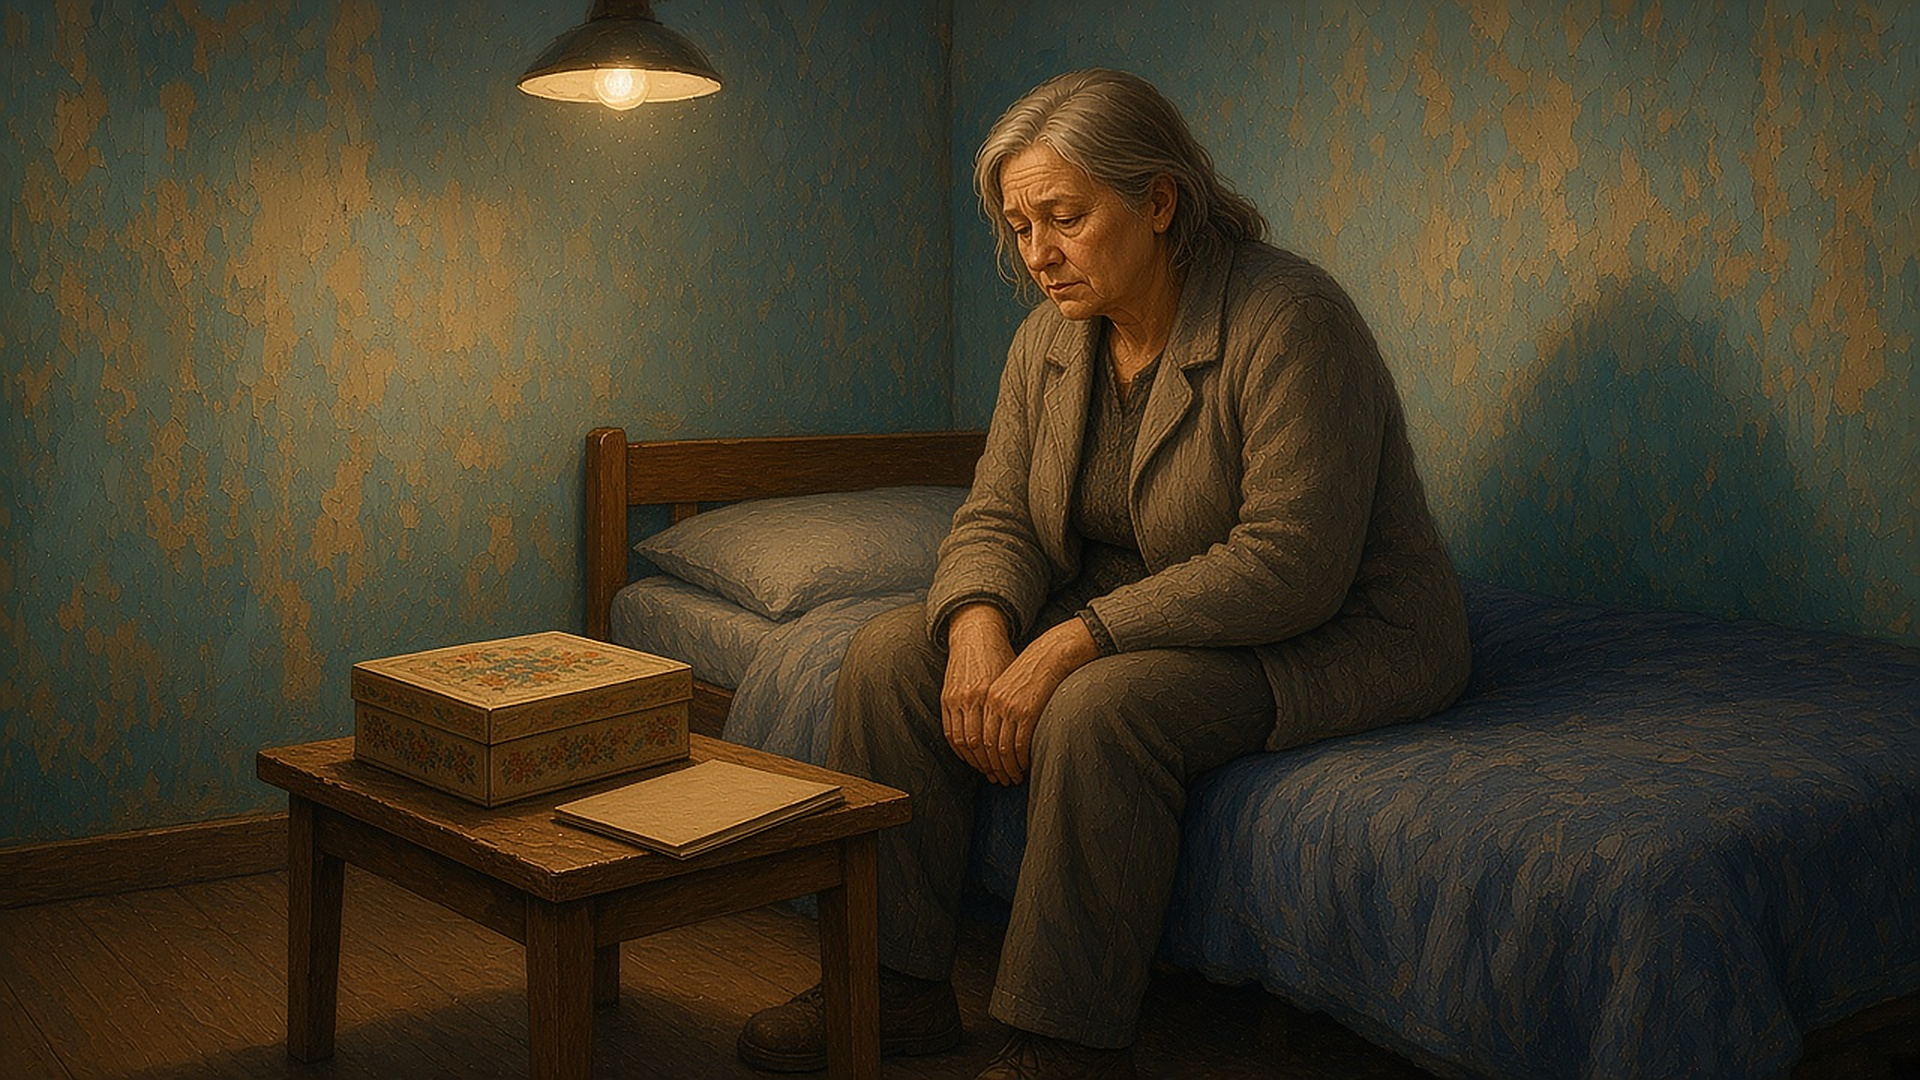
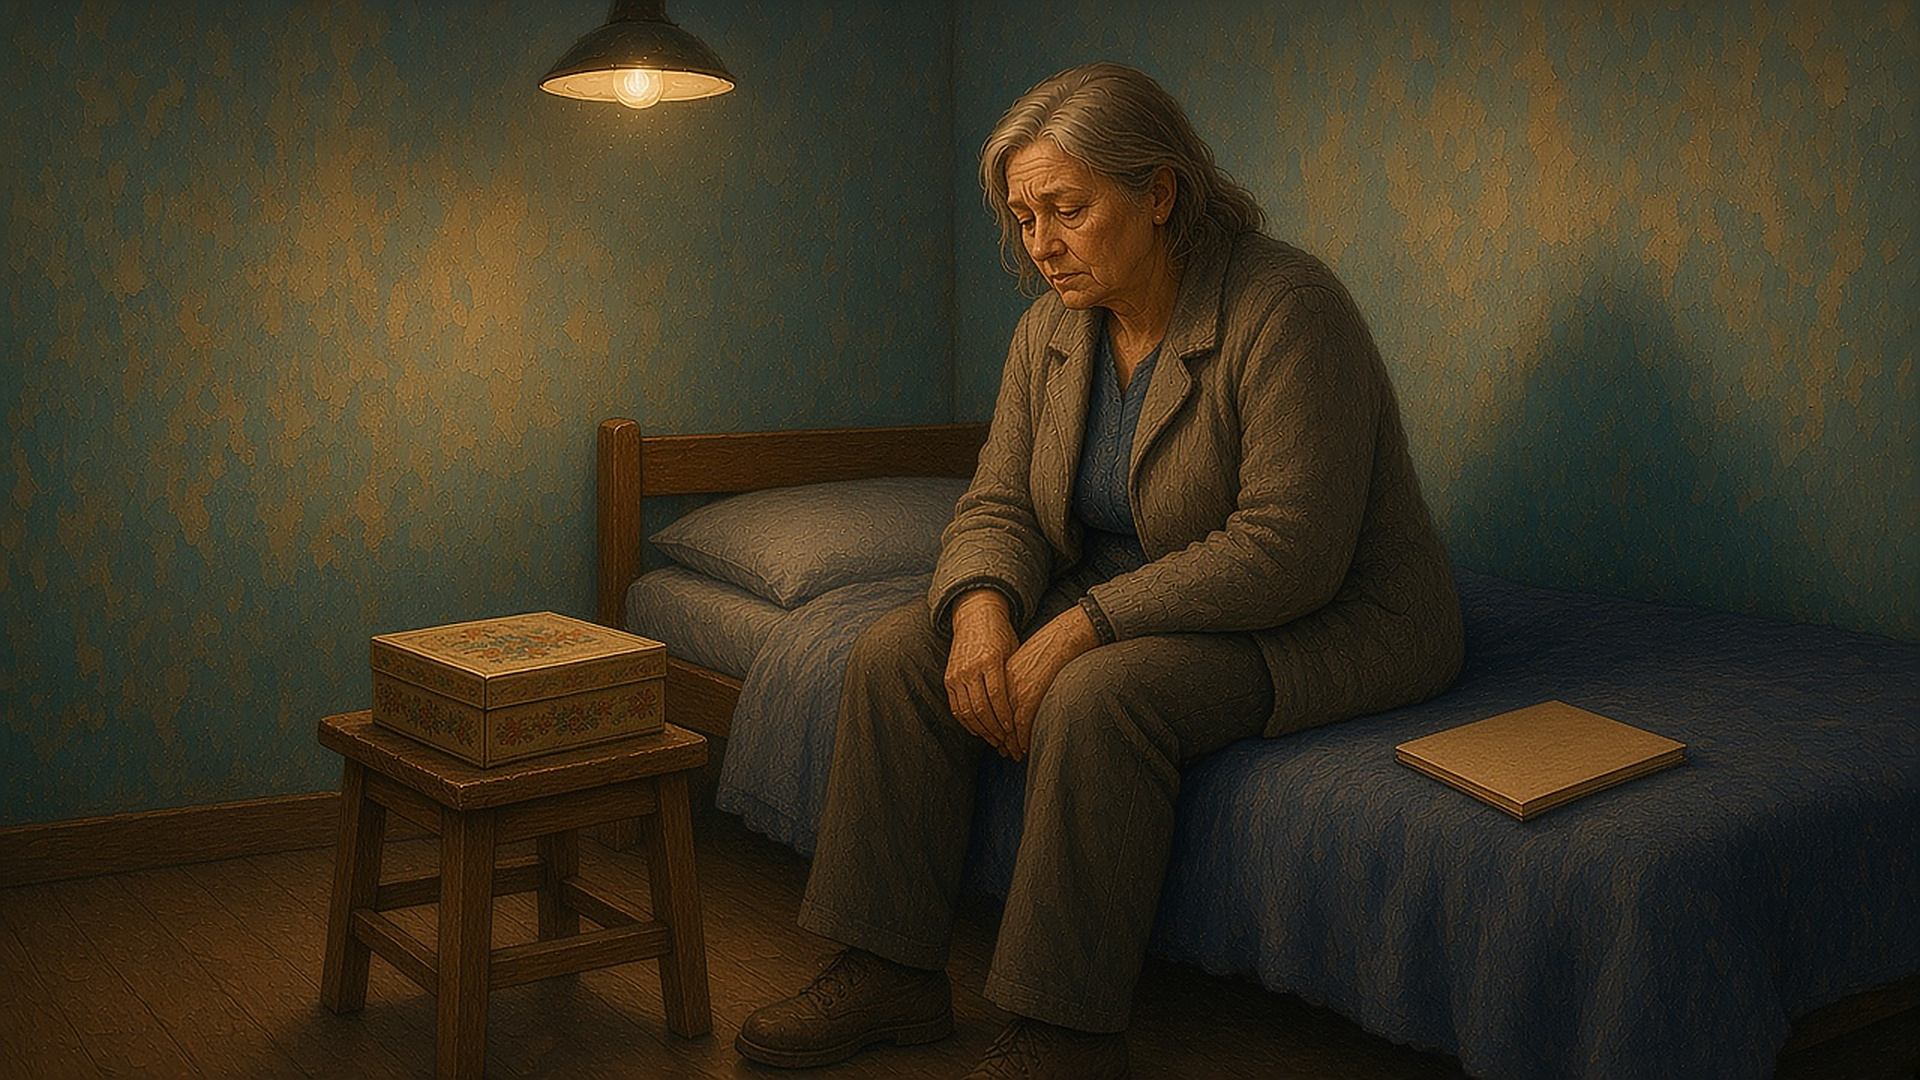
Жена без штампа: ill3 — табурет вместо столика, по тексту.
Локальная замена одной картинки. Остальные файлы v1 не менялись.

diff --git a/covers/zhena_bez_shtampa/v1/README.md b/covers/zhena_bez_shtampa/v1/README.md
@@ -9,8 +9,10 @@
 | cover2.jpg | **в тексте.** Обложка ч.2: Данила 24 смотрит на отца, Валерий 57 держит калитку и не отвечает | ч.2 после первого абзаца |
 | ill2.jpg | **в тексте.** Иллюстрация ч.2: Эльвира на табурете достаёт с антресоли коробку из-под печенья, Данила держит табурет | ч.2, после абзаца про антресоль и табурет |
 | cover3.jpg | **в тексте.** Обложка ч.3: Эльвира у окна при дневном свете читает лист договора, чайник уже выключился | ч.3 после первого абзаца |
-| ill3.jpg | **в тексте.** Иллюстрация ч.3: чужая комната, коробка на табурете/столике, Эльвира на топчане, коробку не открывает | ч.3, после финального абзаца про коробку |
+| ill3.jpg | **в тексте.** Иллюстрация ч.3: чужая комната, коробка на деревянном табурете, Эльвира на топчане, коробку не открывает | ч.3, после финального абзаца про коробку |
 
 Отбракованные попытки (возраст, логотип на машине, Эльвира не на табурете, папка в руках Эльвиры) в эту папку не клались.
+
+ill3 заменён 14.11 вечером (v2): табурет вместо столика, по тексту.
 
 Статус: черновик пакета и PDF готовы, в Публикатор и отложку не ставить без команды Макса
